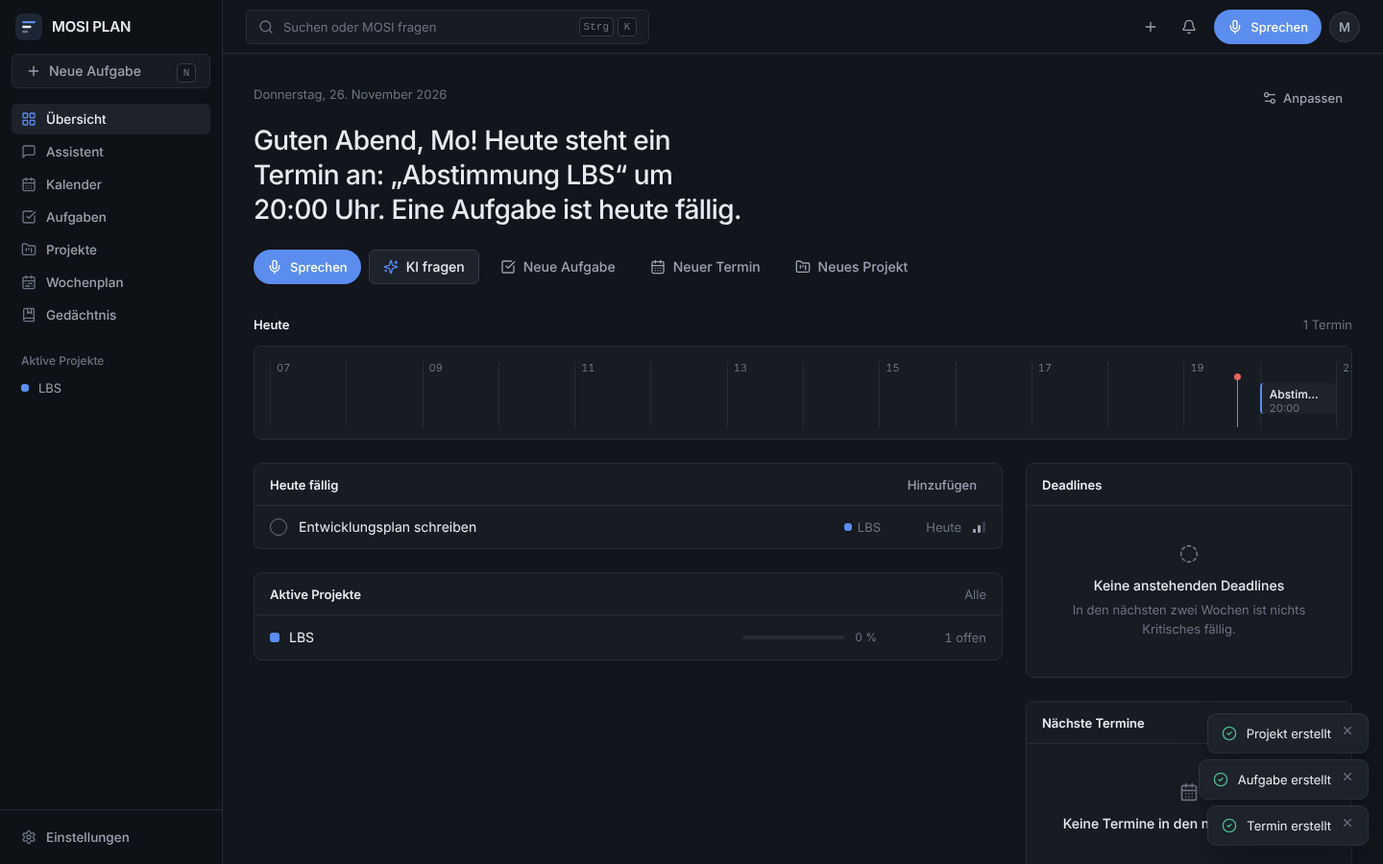
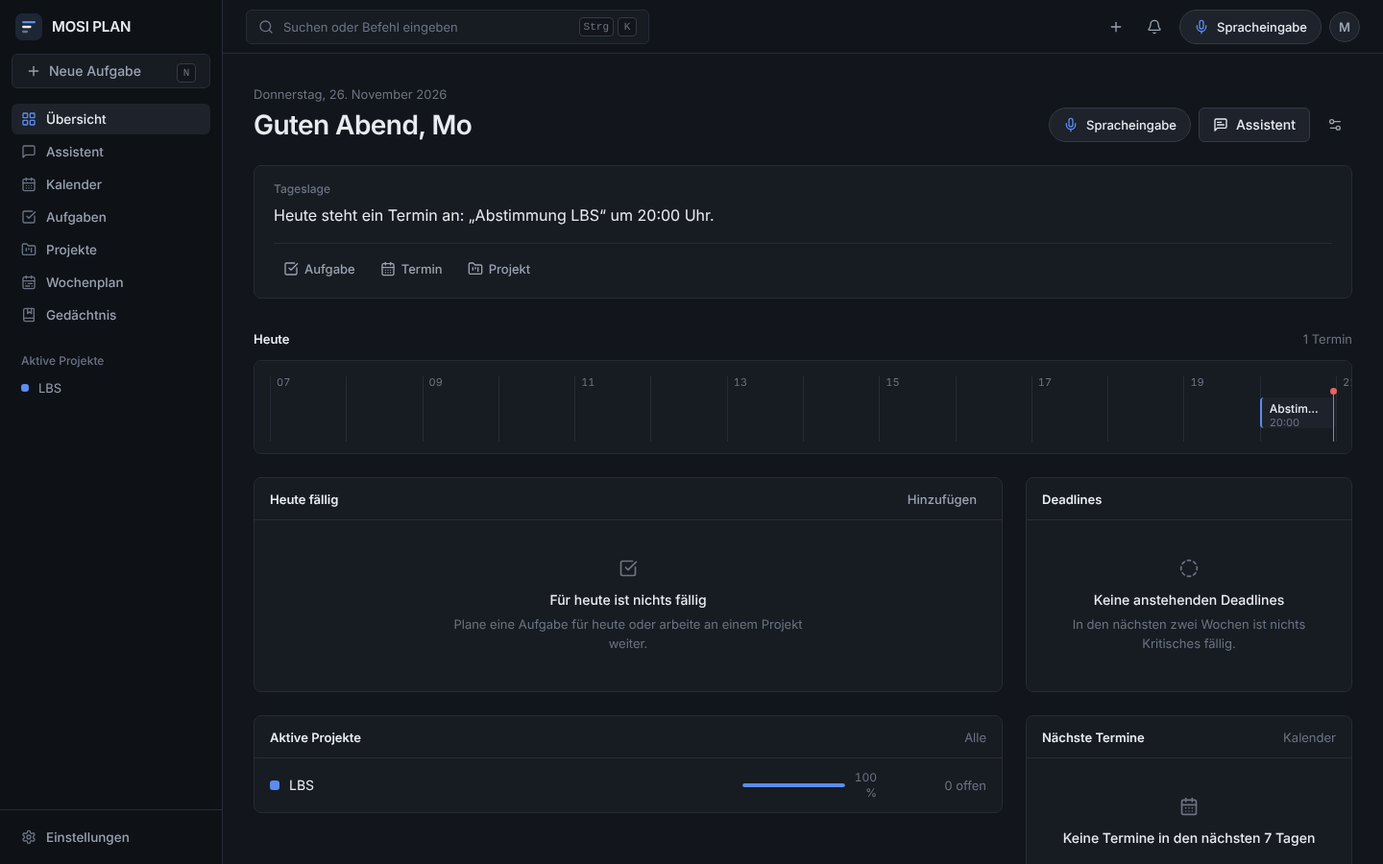
Lokale KI: speicherschonende Modellwahl, KV-Cache-Quantisierung, verständliche OOM-Meldung, scripts/ki-modell.sh; sachlicheres Erscheinungsbild
Claude-Session: https://claude.ai/code/session_018Fw7aFN8DnppVWnMbgvXdZ

diff --git a/frontend/src/pages/Dashboard.tsx b/frontend/src/pages/Dashboard.tsx
@@ -1,5 +1,5 @@
 import { useQuery } from "@tanstack/react-query";
-import { ArrowUp, ArrowDown, CalendarDays, CheckSquare, FolderKanban, MapPin, Settings2, Sparkles } from "lucide-react";
+import { ArrowUp, ArrowDown, CalendarDays, CheckSquare, FolderKanban, MapPin, Settings2, MessageSquareText } from "lucide-react";
 import { useEffect, useState } from "react";
 import { Link, useNavigate } from "react-router-dom";
 import { useCreate } from "@/components/dialogs";
@@ -139,9 +139,9 @@ export default function Dashboard() {
         {d.active_projects.length ? (
           <div className="divide-y divide-line/70">
             {d.active_projects.slice(0, 6).map((p) => (
-              <Link key={p.id} to={`/projekte/${p.id}`} className="grid grid-cols-[1fr_auto] sm:grid-cols-[minmax(0,1fr)_140px_90px] items-center gap-x-6 gap-y-1.5 px-4 py-3 hover:bg-raised/60">
+              <Link key={p.id} to={`/projekte/${p.id}`} className="grid grid-cols-[1fr_auto] sm:grid-cols-[minmax(0,1fr)_160px_90px] items-center gap-x-6 gap-y-1.5 px-4 py-3 hover:bg-raised/60">
                 <div className="flex items-center gap-2.5 min-w-0"><span className="h-2.5 w-2.5 rounded-[3px] shrink-0" style={{ background: p.color }} /><span className="truncate text-base text-ink">{p.name}</span></div>
-                <div className="flex items-center gap-2 col-span-2 sm:col-span-1 order-last sm:order-none"><Progress value={p.progress} /><span className="text-xs text-ink-3 tnum w-8 text-right">{p.progress} %</span></div>
+                <div className="flex items-center gap-2 col-span-2 sm:col-span-1 order-last sm:order-none"><Progress value={p.progress} /><span className="text-xs text-ink-3 tnum w-10 text-right whitespace-nowrap">{p.progress} %</span></div>
                 <div className="text-sm text-ink-3 text-right tnum">{p.task_open} offen</div>
               </Link>
             ))}
@@ -188,24 +188,29 @@ export default function Dashboard() {
 
   return (
     <div>
-      <div className="flex items-start justify-between gap-4">
-        <div className="text-sm text-ink-3">{d ? dateLong(d.date) : <Skeleton className="h-4 w-48" />}</div>
-        <Button variant="ghost" size="sm" onClick={() => setCustomize(true)}><Settings2 className="h-4 w-4" />Anpassen</Button>
+      <div className="flex flex-wrap items-end justify-between gap-4">
+        <div className="min-w-0">
+          <div className="text-sm text-ink-3">{d ? dateLong(d.date) : <Skeleton className="h-4 w-48" />}</div>
+          <h1 className="mt-1 text-2xl font-semibold text-ink">{d ? d.headline : <Skeleton className="h-8 w-64" />}</h1>
+        </div>
+        <div className="flex flex-wrap items-center gap-2">
+          <div className="md:hidden"><MicButton /></div>
+          <Button variant="secondary" size="md" onClick={() => nav("/assistent")}><MessageSquareText className="h-4 w-4" />Assistent</Button>
+          <Button variant="ghost" size="icon" aria-label="Übersicht anpassen" onClick={() => setCustomize(true)}><Settings2 className="h-4 w-4" /></Button>
+        </div>
       </div>
 
       {visible("summary") && (
-        <div className="mt-3 max-w-[64ch]">
-          {d ? <h1 className="text-xl md:text-2xl font-medium text-ink leading-snug text-balance">{d.summary}</h1> : <div className="space-y-2"><Skeleton className="h-7 w-full" /><Skeleton className="h-7 w-2/3" /></div>}
-        </div>
+        <section className="mt-6 rounded-md border border-line bg-surface px-5 py-4">
+          <div className="text-xs font-medium text-ink-3 mb-1.5">Tageslage</div>
+          {d ? <p className="text-md text-ink leading-relaxed max-w-[75ch]">{d.summary}</p> : <Skeleton className="h-6 w-full" />}
+          <div className="mt-4 flex flex-wrap gap-1.5 border-t border-line pt-3">
+            <Button variant="ghost" size="sm" onClick={() => create.newTask()}><CheckSquare className="h-4 w-4" />Aufgabe</Button>
+            <Button variant="ghost" size="sm" onClick={() => create.newEvent()}><CalendarDays className="h-4 w-4" />Termin</Button>
+            <Button variant="ghost" size="sm" onClick={() => create.newProject()}><FolderKanban className="h-4 w-4" />Projekt</Button>
+          </div>
+        </section>
       )}
-
-      <div className="mt-6 flex flex-wrap items-center gap-2">
-        <MicButton />
-        <Button variant="secondary" onClick={() => nav("/assistent")}><Sparkles className="h-4 w-4 text-accent" />KI fragen</Button>
-        <Button variant="ghost" onClick={() => create.newTask()}><CheckSquare className="h-4 w-4" />Neue Aufgabe</Button>
-        <Button variant="ghost" onClick={() => create.newEvent()}><CalendarDays className="h-4 w-4" />Neuer Termin</Button>
-        <Button variant="ghost" onClick={() => create.newProject()}><FolderKanban className="h-4 w-4" />Neues Projekt</Button>
-      </div>
 
       {visible("today_events") && (
         <section className="mt-8">

diff --git a/frontend/src/components/layout.tsx b/frontend/src/components/layout.tsx
@@ -4,7 +4,7 @@ import { useQuery, useQueryClient } from "@tanstack/react-query";
 import { Command } from "cmdk";
 import {
   Bell, BookMarked, CalendarDays, CalendarRange, CheckSquare, FolderKanban, LayoutGrid, LogOut, Menu as MenuIcon, MessageSquare, Mic, Plus, Search,
-  Settings, Sparkles, User as UserIcon, X,
+  Settings, MessageSquareText, User as UserIcon, X,
 } from "lucide-react";
 import { useEffect, useRef, useState, type ReactNode } from "react";
 import { NavLink, Outlet, useLocation, useNavigate } from "react-router-dom";
@@ -176,15 +176,15 @@ export function CommandPalette({ open, onOpenChange }: { open: boolean; onOpenCh
           <Command shouldFilter={!data} loop>
             <div className="flex items-center gap-3 px-4 border-b border-line">
               <Search className="h-4 w-4 text-ink-3" />
-              <Command.Input value={q} onValueChange={setQ} autoFocus placeholder="Suchen, Befehl eingeben oder MOSI fragen …" className="h-12 flex-1 bg-transparent text-md text-ink placeholder:text-ink-3 outline-none" />
+              <Command.Input value={q} onValueChange={setQ} autoFocus placeholder="Suchen, Befehl eingeben oder Assistenten fragen …" className="h-12 flex-1 bg-transparent text-md text-ink placeholder:text-ink-3 outline-none" />
               <Kbd>Esc</Kbd>
             </div>
             <Command.List className="max-h-[min(440px,60vh)] overflow-y-auto pb-2">
               <Command.Empty className="px-4 py-6 text-sm text-ink-3">Keine Treffer.</Command.Empty>
               {q.trim().length > 2 && (
-                <Command.Group heading="MOSI fragen" className={group} forceMount>
+                <Command.Group heading="Assistent" className={group} forceMount>
                   <Command.Item value={`__ask ${q}`} forceMount className={item} onSelect={() => run(() => nav(`/assistent?q=${encodeURIComponent(q.trim())}`))}>
-                    <Sparkles className="h-4 w-4 text-accent" /><span className="truncate">„{q.trim()}“</span>
+                    <MessageSquareText className="h-4 w-4 text-accent" /><span className="truncate">„{q.trim()}“</span>
                   </Command.Item>
                 </Command.Group>
               )}
@@ -247,7 +247,7 @@ function Topbar({ onSearch, onMenu }: { onSearch: () => void; onMenu: () => void
       <Button variant="ghost" size="icon" className="md:hidden -ml-2" aria-label="Menü öffnen" onClick={onMenu}><MenuIcon className="h-5 w-5" /></Button>
       <Logo className="md:hidden" />
       <button onClick={onSearch} className="hidden md:flex items-center gap-2.5 h-9 w-full max-w-[420px] px-3 rounded border border-line bg-surface text-sm text-ink-3 hover:border-line-strong transition-colors">
-        <Search className="h-4 w-4" />Suchen oder MOSI fragen<span className="ml-auto flex gap-1"><Kbd>Strg</Kbd><Kbd>K</Kbd></span>
+        <Search className="h-4 w-4" />Suchen oder Befehl eingeben<span className="ml-auto flex gap-1"><Kbd>Strg</Kbd><Kbd>K</Kbd></span>
       </button>
       <div className="ml-auto flex items-center gap-1">
         <Button variant="ghost" size="icon" className="md:hidden" aria-label="Suchen" onClick={onSearch}><Search className="h-4 w-4" /></Button>
@@ -293,7 +293,7 @@ function MobileNav() {
       <div className="flex h-16 items-stretch px-2">
         {item("/", "Heute", LayoutGrid, true)}
         {item("/kalender", "Kalender", CalendarDays)}
-        <div className="flex flex-1 items-center justify-center"><MicButton size="lg" className="-mt-7 shadow-[0_6px_20px_-4px_rgb(91_141_239/0.6)] ring-4 ring-canvas" /></div>
+        <div className="flex flex-1 items-center justify-center"><MicButton size="lg" className="-mt-7 ring-4 ring-rail" /></div>
         {item("/aufgaben", "Aufgaben", CheckSquare)}
         {item("/assistent", "Assistent", MessageSquare)}
       </div>

diff --git a/frontend/src/pages/WeeklyPlan.tsx b/frontend/src/pages/WeeklyPlan.tsx
@@ -1,5 +1,5 @@
 import { useMutation, useQuery, useQueryClient } from "@tanstack/react-query";
-import { AlertTriangle, CalendarCheck, History, RefreshCw, Sparkles, Trash2, X } from "lucide-react";
+import { AlertTriangle, CalendarCheck, History, RefreshCw, MessageSquareText, Trash2, X } from "lucide-react";
 import { useState } from "react";
 import { Markdown } from "@/components/markdown";
 import { useToast } from "@/components/toast";
@@ -101,7 +101,7 @@ function PlanView({ plan }: { plan: Plan }) {
           {d.deadlines.length > 0 && <Panel title="Kritische Deadlines"><ul className="px-4 py-3 space-y-1.5">{d.deadlines.map((x) => <li key={x.type + x.id} className="flex gap-3 text-sm"><span className="w-14 tnum text-ink-3 shrink-0">{dateShort(x.date)}</span><span className="text-ink">{x.title}</span></li>)}</ul></Panel>}
           {d.carryover.length > 0 && <Panel title="Offen aus der Vorwoche"><ul className="px-4 py-3 space-y-1.5 text-sm text-ink-2">{d.carryover.map((c) => <li key={c.task_id}>{c.title}</li>)}</ul></Panel>}
           {d.unscheduled.length > 0 && <Panel title="Nicht eingeplant"><ul className="px-4 py-3 space-y-2 text-sm">{d.unscheduled.map((u) => <li key={u.task_id}><div className="text-ink">{u.title}</div><div className="text-ink-3">{u.reason}, {minutes(u.minutes)} offen</div></li>)}</ul></Panel>}
-          <Panel title="Empfehlungen" action={<Button size="sm" variant="ghost" loading={ai.isPending} onClick={() => ai.mutate()}><Sparkles className="h-3.5 w-3.5 text-accent" />MOSI fragen</Button>}>
+          <Panel title="Empfehlungen" action={<Button size="sm" variant="ghost" loading={ai.isPending} onClick={() => ai.mutate()}><MessageSquareText className="h-3.5 w-3.5 text-accent" />MOSI fragen</Button>}>
             <div className="px-4 py-3 space-y-3 text-sm text-ink-2">
               {d.recommendations.length ? <ul className="list-disc pl-4 space-y-1">{d.recommendations.map((r, i) => <li key={i}>{r}</li>)}</ul> : <p>Keine Auffälligkeiten.</p>}
               {d.ai_notes && <div className="border-t border-line pt-3"><Markdown text={d.ai_notes} className="space-y-1.5" /></div>}
@@ -146,7 +146,7 @@ export default function WeeklyPlan() {
       <Segmented value={tab} onChange={(v) => { setTab(v); setHistId(null); }} className="mb-6" options={[{ value: "this_week", label: "Diese Woche" }, { value: "next_week", label: "Nächste Woche" }, { value: "history", label: "Verlauf" }]} />
       {tab !== "history" && (cur.isLoading ? <Skeleton className="h-96" /> : slot?.plan ? <PlanView plan={slot.plan} /> : (
         <Panel><Empty icon={CalendarCheck} title={`Noch kein Plan für die Woche ab ${slot ? dateShort(slot.week_start) : ""}`} text="MOSI berücksichtigt Termine, offene Aufgaben, Deadlines, Prioritäten und deine Planungsregeln."
-          action={<Button variant="primary" loading={gen.isPending} onClick={() => slot && gen.mutate(slot.week_start)}><Sparkles className="h-4 w-4" />Wochenplan erstellen</Button>} /></Panel>
+          action={<Button variant="primary" loading={gen.isPending} onClick={() => slot && gen.mutate(slot.week_start)}><MessageSquareText className="h-4 w-4" />Wochenplan erstellen</Button>} /></Panel>
       ))}
       {tab === "history" && (histId ? (
         <div><Button variant="ghost" size="sm" className="mb-4" onClick={() => setHistId(null)}>Zurück zum Verlauf</Button>{histPlan.data ? <PlanView plan={histPlan.data} /> : <Skeleton className="h-96" />}</div>

diff --git a/frontend/src/components/voice.tsx b/frontend/src/components/voice.tsx
@@ -247,8 +247,8 @@ function StatusSteps({ state }: { state: VoiceState }) {
 }
 
 const HEADLINE: Record<VoiceState, string> = {
-  idle: "", recording: "Ich höre zu …", transcribing: "Sprache wird erkannt …", thinking: "MOSI denkt nach …",
-  acting: "Aktion wird ausgeführt …", speaking: "Antwort wird gesprochen", done: "Fertig", error: "Das hat nicht geklappt",
+  idle: "", recording: "Aufnahme läuft", transcribing: "Sprache wird erkannt", thinking: "Anfrage wird verarbeitet",
+  acting: "Aktion wird ausgeführt", speaking: "Antwort wird vorgelesen", done: "Abgeschlossen", error: "Fehler",
 };
 
 function VoiceSheet() {
@@ -287,7 +287,7 @@ function VoiceSheet() {
 
           {v.reply && (
             <div className="mt-5 border-t border-line pt-4 text-base text-ink-2">
-              <div className="text-xs text-ink-3 mb-1.5">MOSI</div>
+              <div className="text-xs text-ink-3 mb-1.5">Antwort</div>
               <Markdown text={v.reply} />
             </div>
           )}
@@ -308,9 +308,9 @@ function VoiceSheet() {
               <Button variant="secondary" onClick={() => { stopSpeaking(); }}><VolumeX className="h-4 w-4" /> Vorlesen stoppen</Button>
             )}
             {(v.state === "done" || v.state === "error") && (
-              <Button variant="primary" onClick={v.start}>{v.state === "error" ? <RotateCcw className="h-4 w-4" /> : <Mic className="h-4 w-4" />}{v.state === "error" ? "Erneut versuchen" : "Weiter sprechen"}</Button>
+              <Button variant="primary" onClick={v.start}>{v.state === "error" ? <RotateCcw className="h-4 w-4" /> : <Mic className="h-4 w-4" />}{v.state === "error" ? "Erneut versuchen" : "Neue Spracheingabe"}</Button>
             )}
-            {busy && <span className="text-sm text-ink-3">Bitte einen Moment …</span>}
+            {busy && <span className="text-sm text-ink-3">Wird bearbeitet</span>}
           </div>
         </div>
       </div>
@@ -330,13 +330,13 @@ export function MicButton({ className, size = "md", label = true }: { className?
       className={cn(
         "relative inline-flex items-center justify-center gap-2 rounded-full font-medium transition-colors",
         size === "lg" ? "h-14 w-14" : label ? "h-9 px-3.5" : "h-9 w-9",
-        rec ? "bg-danger text-white" : "bg-accent text-white hover:bg-accent/90",
+        rec ? "bg-danger text-white" : size === "lg" ? "bg-accent text-white hover:bg-accent/90" : "bg-raised text-ink border border-line-strong hover:border-ink-3/60",
         className,
       )}
     >
       {rec && <span className="absolute inset-0 rounded-full ring-4 ring-danger/30 animate-pulse" aria-hidden />}
-      {rec ? <Square className={size === "lg" ? "h-5 w-5 fill-current" : "h-3.5 w-3.5 fill-current"} /> : <Mic className={size === "lg" ? "h-6 w-6" : "h-4 w-4"} />}
-      {label && size !== "lg" && <span className="text-sm">{rec ? "Stopp" : "Sprechen"}</span>}
+      {rec ? <Square className={size === "lg" ? "h-5 w-5 fill-current" : "h-3.5 w-3.5 fill-current"} /> : <Mic className={size === "lg" ? "h-6 w-6" : "h-4 w-4 text-accent"} />}
+      {label && size !== "lg" && <span className="text-sm">{rec ? "Aufnahme beenden" : "Spracheingabe"}</span>}
     </button>
   );
 }

diff --git a/frontend/src/pages/Assistant.tsx b/frontend/src/pages/Assistant.tsx
@@ -60,13 +60,13 @@ export default function Assistant() {
     let id = cid;
     if (!id) { const c = await api.post<Conv>("/api/conversations"); id = c.id; setParams({ c: String(id) }); }
     setInput("");
-    setLive({ user: content, text: "", status: "MOSI denkt nach …", actions: [] });
+    setLive({ user: content, text: "", status: "Wird verarbeitet …", actions: [] });
     try {
       let acc = "";
       const done = await streamChat(id!, content, false, (ev) => {
         if (ev.type === "delta") { acc += ev.text; setLive((l) => l && { ...l, text: acc, status: "" }); }
         if (ev.type === "tool") setLive((l) => l && { ...l, status: `${ev.label} …` });
-        if (ev.type === "backend" && ev.name === "direct") setLive((l) => l && { ...l, status: "MOSI denkt nach (direkter Anbieter) …" });
+        if (ev.type === "backend" && ev.name === "direct") setLive((l) => l && { ...l, status: "Wird verarbeitet …" });
       });
       setLive((l) => l && { ...l, text: done.content, error: done.error, actions: done.pending_actions, status: "" });
       await qc.invalidateQueries({ queryKey: ["conversation", id] });
@@ -135,9 +135,10 @@ export default function Assistant() {
           <div className="max-w-[760px] mx-auto px-4 md:px-6 py-6 space-y-6">
             {empty && (
               <div className="pt-6 md:pt-14">
-                <h2 className="text-xl font-semibold">Womit kann ich helfen?</h2>
-                <p className="text-base text-ink-2 mt-1">MOSI kennt deine Projekte, Aufgaben, Termine und gespeicherten Regeln.</p>
-                <div className="mt-6 grid gap-2">
+                <h2 className="text-xl font-semibold">Assistent</h2>
+                <p className="text-base text-ink-2 mt-1">Zugriff auf Projekte, Aufgaben, Termine und gespeicherte Regeln. Änderungen mit Tragweite werden erst nach deiner Bestätigung ausgeführt.</p>
+                <div className="mt-6 text-xs font-medium text-ink-3">Beispiele</div>
+                <div className="mt-2 grid gap-2">
                   {EXAMPLES.map((e) => (
                     <button key={e} onClick={() => send(e)} className="text-left rounded border border-line px-3.5 py-2.5 text-base text-ink-2 hover:text-ink hover:border-line-strong hover:bg-surface transition-colors">{e}</button>
                   ))}
@@ -160,7 +161,7 @@ export default function Assistant() {
         </div>
         <div className="border-t border-line px-4 md:px-6 py-3">
           <form className="max-w-[760px] mx-auto flex items-end gap-2" onSubmit={(e) => { e.preventDefault(); send(input); }}>
-            <Textarea value={input} onChange={(e) => setInput(e.target.value)} rows={1} placeholder="Nachricht an MOSI …" aria-label="Nachricht"
+            <Textarea value={input} onChange={(e) => setInput(e.target.value)} rows={1} placeholder="Anfrage eingeben …" aria-label="Nachricht"
               className="min-h-[40px] max-h-40 py-2 resize-none"
               onKeyDown={(e) => { if (e.key === "Enter" && !e.shiftKey) { e.preventDefault(); send(input); } }} />
             <MicButton label={false} className="h-10 w-10 shrink-0" />

diff --git a/frontend/src/pages/ProjectDetail.tsx b/frontend/src/pages/ProjectDetail.tsx
@@ -1,5 +1,5 @@
 import { useMutation, useQuery, useQueryClient } from "@tanstack/react-query";
-import { AlertTriangle, ArrowLeft, MoreHorizontal, Pencil, Plus, Sparkles, Trash2 } from "lucide-react";
+import { AlertTriangle, ArrowLeft, MoreHorizontal, Pencil, Plus, MessageSquareText, Trash2 } from "lucide-react";
 import { useEffect, useState } from "react";
 import { Link, useNavigate, useParams } from "react-router-dom";
 import { useCreate } from "@/components/dialogs";
@@ -54,7 +54,7 @@ export default function ProjectDetail() {
             <MenuTrigger asChild><Button variant="secondary" size="icon" aria-label="Weitere Aktionen"><MoreHorizontal className="h-4 w-4" /></Button></MenuTrigger>
             <MenuContent>
               <MenuItem icon={Pencil} onSelect={() => create.editProject(p)}>Bearbeiten</MenuItem>
-              <MenuItem icon={Sparkles} onSelect={() => nav(`/assistent?q=${encodeURIComponent(`Erstelle für mein Projekt ${p.name} einen vollständigen Entwicklungsplan.`)}`)}>Plan mit MOSI erstellen</MenuItem>
+              <MenuItem icon={MessageSquareText} onSelect={() => nav(`/assistent?q=${encodeURIComponent(`Erstelle für mein Projekt ${p.name} einen vollständigen Entwicklungsplan.`)}`)}>Plan mit MOSI erstellen</MenuItem>
               <MenuItem icon={Trash2} danger onSelect={() => setDel(true)}>Löschen</MenuItem>
             </MenuContent>
           </Menu>
@@ -85,7 +85,7 @@ export default function ProjectDetail() {
           </Panel>
         </div>
         <div className="space-y-6">
-          <Panel title="KI-Zusammenfassung" action={<Button size="sm" variant="ghost" loading={summary.isPending} onClick={() => summary.mutate()}><Sparkles className="h-3.5 w-3.5 text-accent" />{p.ai_summary ? "Aktualisieren" : "Erstellen"}</Button>}>
+          <Panel title="KI-Zusammenfassung" action={<Button size="sm" variant="ghost" loading={summary.isPending} onClick={() => summary.mutate()}><MessageSquareText className="h-3.5 w-3.5 text-accent" />{p.ai_summary ? "Aktualisieren" : "Erstellen"}</Button>}>
             <div className="px-4 py-3 text-sm text-ink-2">
               {p.ai_summary ? <><Markdown text={p.ai_summary} className="space-y-2" /><div className="text-xs text-ink-3 mt-2">{ago(p.ai_summary_at!)}</div></> : "Noch keine Zusammenfassung."}
             </div>

diff --git a/frontend/src/components/task-row.tsx b/frontend/src/components/task-row.tsx
@@ -1,4 +1,4 @@
-import { CornerDownRight, Repeat, Sparkles } from "lucide-react";
+import { CornerDownRight, Repeat, MessageSquareText } from "lucide-react";
 import { minutes, relDay, TASK_STATUS } from "@/lib/format";
 import type { Task } from "@/lib/types";
 import { cn } from "@/lib/utils";
@@ -17,7 +17,7 @@ export function TaskRow({ task, showProject = true, dense }: { task: Task; showP
       {task.parent_id && <CornerDownRight className="h-3.5 w-3.5 text-ink-3 -ml-1" />}
       <div className="min-w-0 flex-1 flex items-center gap-2">
         <span className={cn("truncate text-base", done ? "text-ink-3 line-through" : "text-ink")}>{task.title}</span>
-        {task.origin === "assistant" && <Sparkles className="h-3 w-3 text-ink-3 shrink-0" aria-label="Vom Assistenten erstellt" />}
+        {task.origin === "assistant" && <MessageSquareText className="h-3 w-3 text-ink-3 shrink-0" aria-label="Vom Assistenten erstellt" />}
         {task.subtask_total > 0 && <span className="text-xs text-ink-3 tnum shrink-0">{task.subtask_done}/{task.subtask_total}</span>}
         {task.status === "waiting" && <span className="text-xs text-warn shrink-0">{TASK_STATUS.waiting}</span>}
         {task.status === "in_progress" && <span className="text-xs text-accent-ink shrink-0">{TASK_STATUS.in_progress}</span>}

diff --git a/frontend/src/lib/types.ts b/frontend/src/lib/types.ts
@@ -35,7 +35,7 @@ export interface PendingAction { id: number; tool: string; description: string; 
 export interface ChatMessage { id: number; role: "user" | "assistant"; content: string; created_at: string; meta: { backend?: string; tools?: string[]; error?: boolean; voice?: boolean; actions?: PendingAction[] } }
 
 export interface Overview {
-  date: string; date_label: string; greeting: string; name: string; summary: string;
+  date: string; date_label: string; greeting: string; name: string; summary: string; headline: string;
   events_today: CalEvent[]; upcoming_events: CalEvent[]; tasks_today: Task[]; overdue: Task[];
   deadlines: { type: "task" | "project"; id: number; title: string; date: string; project_name: string | null; priority: Priority }[];
   active_projects: Project[];

diff --git a/backend/app/ai/agent.py b/backend/app/ai/agent.py
@@ -110,7 +110,7 @@ def choose_backend(db: Session) -> str:
 
 # ----------------------------------------------------------------- Prompting
 STATIC_PROMPT = """Du bist MOSI, der persönliche Planungsassistent in der Anwendung MOSI PLAN.
-Du sprichst Deutsch, duzt den Benutzer, antwortest ruhig, klar und knapp (ideal für Sprachausgabe: kurze Sätze, keine Tabellen, keine Emojis, Markdown nur sparsam für Listen).
+Du sprichst Deutsch und duzt den Benutzer. Dein Ton ist sachlich, präzise und professionell – wie eine erfahrene persönliche Assistenz. Keine Floskeln, keine Ausrufezeichen, keine Emojis. Kurze, klare Sätze (geeignet für Sprachausgabe), Markdown nur sparsam für Listen.
 
 Arbeitsweise:
 - Nutze ausschließlich die MOSI-Werkzeuge, um Projekte, Aufgaben, Termine, Wochenpläne und das Gedächtnis zu lesen oder zu ändern. Erfinde keine Daten.
@@ -231,7 +231,15 @@ def _direct_call(db: Session, messages: list[dict], tools: list[dict] | None) ->
     if r.status_code == 429:
         raise AIUnavailable("Der KI-Anbieter meldet ein Limit (429). Bitte später erneut versuchen oder Tarif/Limits beim Anbieter prüfen.")
     if r.status_code != 200:
-        raise AIUnavailable(f"KI-Anbieter meldet Fehler {r.status_code}: {r.text[:200]}")
+        text = r.text[:400]
+        if "signal: killed" in text or "out of memory" in text.lower() or "requires more system memory" in text:
+            raise AIUnavailable(
+                "Das lokale KI-Modell wurde beendet, weil der Arbeitsspeicher des Servers nicht reicht. "
+                "Bitte ein kleineres Modell wählen, z. B. auf dem Server: sudo ./scripts/ki-modell.sh qwen2.5:3b"
+            )
+        if "not found" in text and "model" in text:
+            raise AIUnavailable(f"Das Modell „{model}“ ist nicht installiert. Auf dem Server: sudo ./scripts/ki-modell.sh {model}")
+        raise AIUnavailable(f"KI-Anbieter meldet Fehler {r.status_code}: {text[:200]}")
     data = r.json()
     if not data.get("choices"):
         raise AIUnavailable("Leere Antwort vom KI-Anbieter.")

diff --git a/backend/app/services/overview.py b/backend/app/services/overview.py
@@ -83,12 +83,13 @@ def daily_overview(db: Session, user: User, day: date | None = None) -> dict:
         "deadlines": deadlines,
         "active_projects": [p.model_dump(mode="json") for p in active],
         "summary": summary_text(db, user, today, events_today, tasks_today, overdue, deadlines, local_now),
+        "headline": f"{greeting_for(local_now.hour)}, {user_name(db, user)}",
     }
 
 
 def summary_text(db, user, today, events_today, tasks_today, overdue, deadlines, local_now) -> str:
     """Deterministische, ausschließlich aus echten Daten erzeugte Zusammenfassung."""
-    parts = [f"{greeting_for(local_now.hour)}, {user_name(db, user)}!"]
+    parts = []
     timed = [e for e in events_today if not e["all_day"]]
     remaining = [e for e in timed if e["end"] > datetime.now(timezone.utc).isoformat()]
     if not events_today:
@@ -110,8 +111,9 @@ def summary_text(db, user, today, events_today, tasks_today, overdue, deadlines,
         label = f"Für dein Projekt {nxt['title']}" if nxt["type"] == "project" else f"Die Aufgabe „{nxt['title']}“"
         parts.append(f"{label} ist die nächste Deadline {fmt_date(d, today)}.")
     if not tasks_today and not overdue and not events_today:
-        parts.append("Ein guter Tag, um an deinen Projekten weiterzuarbeiten.")
+        parts.append("Es liegen keine fälligen Punkte vor.")
     return " ".join(parts)
+
 
 
 def week_open_tasks(db: Session, user: User) -> list[Task]:

diff --git a/backend/app/cli.py b/backend/app/cli.py
@@ -39,6 +39,10 @@ def main() -> None:
     r.add_argument("--username", required=True)
     sub.add_parser("wait-db")
     sub.add_parser("has-admin")
+    m = sub.add_parser("set-ai-model")
+    m.add_argument("--model", required=True)
+    m.add_argument("--base-url", default="")
+    m.add_argument("--mode", default="")
     a = p.parse_args()
 
     if a.cmd == "wait-db":
@@ -56,6 +60,17 @@ def main() -> None:
     try:
         if a.cmd == "has-admin":
             sys.exit(0 if db.scalars(select(User)).first() else 1)
+        if a.cmd == "set-ai-model":
+            from .services import settings_store as st
+
+            patch = {"direct_model": a.model}
+            if a.base_url:
+                patch["direct_base_url"] = a.base_url
+            if a.mode:
+                patch["mode"] = a.mode
+            st.update_section(db, "ai", patch)
+            print(f"KI-Modell auf „{a.model}“ gesetzt.")
+            return
         if a.cmd == "create-admin":
             if db.scalars(select(User)).first():
                 sys.exit("Es existiert bereits ein Benutzer. MOSI PLAN ist eine Einzelbenutzer-Anwendung (reset-password verwenden).")
